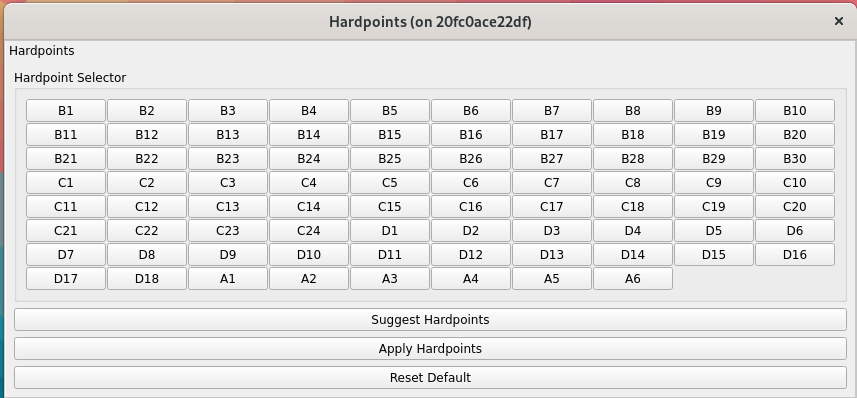
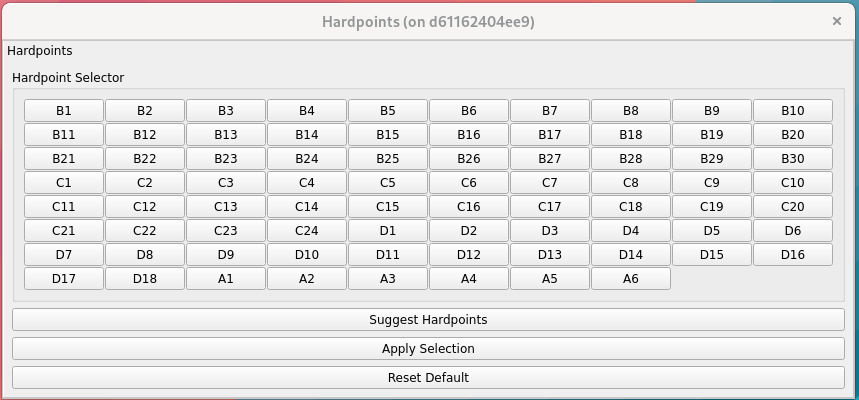
Improve based on Petr's comments.

Changed region(s): [[0.0, 0.0, 1.0, 1.0]]

diff --git a/python/lsst/ts/m2gui/controltab/tab_hardpoint_selection.py b/python/lsst/ts/m2gui/controltab/tab_hardpoint_selection.py
@@ -80,7 +80,7 @@ class TabHardpointSelection(TabDefault):
                 tool_tip="Reset the default hardpoints",
             ),
             "apply": set_button(
-                "Apply Hardpoints",
+                "Apply Selection",
                 self._callback_apply_hardpoints,
                 tool_tip="Apply the selected hardpoints",
             ),
@@ -157,7 +157,7 @@ class TabHardpointSelection(TabDefault):
         # Only support in the simulation mode at this moment.
         # TODO: Remove this after the M2 cell LabVIEW code supports this.
         if not self.model._is_simulation_mode:
-            raise RuntimeError("Only support in the simulation mode.")
+            raise RuntimeError("Only supported in the simulation mode.")
 
         # Set the hardpoints
         await self.model.controller.set_hardpoint_list(hardpoints)
@@ -170,14 +170,14 @@ class TabHardpointSelection(TabDefault):
         await run_command(self._suggest_hardpoints)
 
     def _suggest_hardpoints(self) -> None:
-        """Suggest the hardpoints.
+        """Suggest the hardpoints. Requires at least one axial and one
+        tangential hardpoints are already selected.
 
         Raises
         ------
         `ValueError`
-            When there is no selected axial hardpoint.
-        `ValueError`
-            When there is no selected tangent hardpoint.
+            When there aren't at least one axial and one tangential actuators
+            already selected.
         """
 
         # Check the axial hardpoint

diff --git a/python/lsst/ts/m2gui/utils.py b/python/lsst/ts/m2gui/utils.py
@@ -515,9 +515,4 @@ def get_checked_buttons(buttons: list[QPushButton]) -> list[int]:
         Indexes of the checked buttons.
     """
 
-    checked_buttons = list()
-    for idx, button in enumerate(buttons):
-        if button.isChecked():
-            checked_buttons.append(idx)
-
-    return checked_buttons
+    return [idx for idx, button in enumerate(buttons) if button.isChecked()]

diff --git a/doc/user-guide/user-guide.rst b/doc/user-guide/user-guide.rst
@@ -470,12 +470,16 @@ This table shows the net force and moment in real-time.
 The first row is the forces in x, y, and z directions.
 The second row is the moments in x, y, and z directions.
 
-For the TMA azimuth movement, you should expect to see the moments are smooth with intermittent peaks to reflect the acceleration/deceleration of TMA.
-For the TMA elevation movement, you should see the change of force-y,z and moment-x to reflect the supportors of M2 (peaks reflect the TMA's acceleration/deceleration as well).
-When the TMA is on the zenith/horizon, the supportors of M2 are the axial/tangent actuators.
-If the TMA is on the horizon, the M2 has the maximum moment-x to be around ~1250-1300 N.
-This means if you see the moment-x has the value higher than this in any case, something should be wrong.
-If you see any unexpected behaviors of moments, something should be wrong as well.
+When the TMA moves in azimuth, expect to see smooth and almost constant mirror moments, interrupted by peaks caused by the TMA acceleration/deceleration.
+For the movement in elevation, y and z mirror forces shall change with cos/sin of the TMA elevation - maximum z force magnitude observed at the zenith, maximum y force magnitude at the horizon.
+
+The x moment shall reflect the supportors of mirror.
+If the TMA is at the zenith, the mirror is supported by axial actuators.
+When the TMA is at the horizon, tangent actuators are supporting the mirror mass (counteracting mirror gravity force).
+At the horizon, there is x moment caused by the mirror's tendency to flip.
+The maximum value of that moment shall be around 1250-1300 N*m.
+If the x-moment value is higher than the expected maximum, something is wrong with the mirror or its control system.
+Also, any unexpected moment change should be investigated.
 
 .. _lsst.ts.m2gui-user_hardpoint_selection:
 
@@ -487,10 +491,13 @@ Hardpoint Selection
 
   Select the hardpoints.
 
-You can use this table to select the hardpoints in the **Diagnostic** state.
-If there is any actuator is in fault, it should be assigned to be the hardpoint to support the survey until the day crew can have a further investigation.
-There are some geometry requirements for the hardpoints, and you can use the **Suggest Hardpoints** button to get the suggestion.
-At least one axial and one tangent actuators should be selected before doing the suggestion.
-Use the **Apply Hardpoints** button to apply the new hardpoints.
-Once it succeeds, you should see the related update in :ref:`lsst.ts.m2gui-user_detailed_force`.
-You can use the **Reset Default** button to get the default hardpoints as well.
+You can use this user interface to select the hardpoints actuators.
+The actuators can be selected only in the **Diagnostic** state.
+Faulted actuators can be selected as hardpoints and work as hardpoints, so the night survey can continue until the day crew can inspect and service them.
+Once you have marked a few actuators as hardpoints, you can click on the **Suggest Hardpoints** button to select the remaining hardpoints.
+This makes sure geometric requirements for hardpoint selection are met.
+
+At least one axial and one tangent actuator should be selected before clicking the **Suggest Hardpoints** button.
+Use the **Apply Selection** button to apply the hardpoints selection.
+Once the command succeeds, you should see the related update in :ref:`lsst.ts.m2gui-user_detailed_force`.
+The **Reset Default** button clears your selection and loads the default set.
